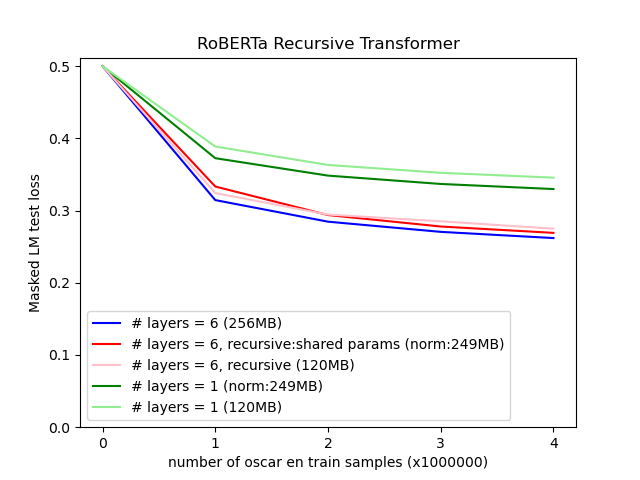
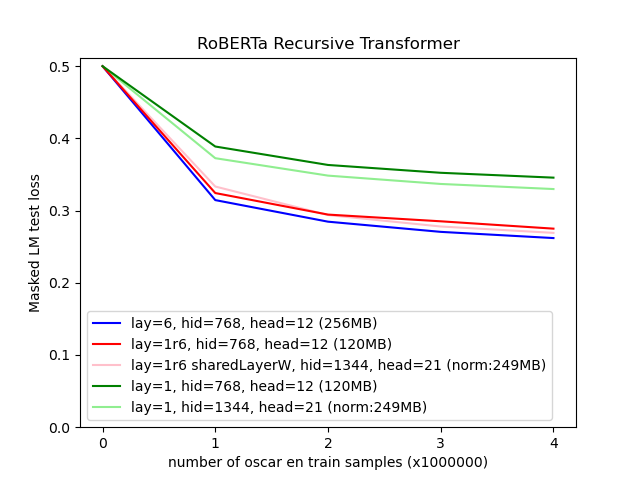
update graph positionEmbeddingTypeAbsolute/RobertaRecursiveTransformer-transformerBlockMLPlayer with sharedLayerWeightsMLPonly ("sharedLayerWeightsMLP"): recursiveLayersNormaliseNumParametersIntermediateOnly ("intermediate norm") patch graph positionEmbeddingTypeRelative/RobertaRecursiveTransformer 

Changed region(s): [[0.1875, 0.6562, 0.875, 0.875], [0.1562, 0.125, 0.875, 0.4375], [0.4688, 0.4375, 0.875, 0.5]]

diff --git a/ROBERTAptRecursive/ROBERTApt-main.py b/ROBERTAptRecursive/ROBERTApt-main.py
@@ -32,6 +32,11 @@ See RobertaForMaskedLM tutorial;
 
 from modeling_roberta_recursiveLayers import recursiveLayers
 
+relativeFolderLocations = False
+
+legacyDataloaderCode1 = False
+legacyDataloaderCode0 = False
+
 #user config vars:
 
 useSmallDatasetDebug = False
@@ -49,10 +54,9 @@ stateTestDataset = True	#requires reserveValidationSet
 if(recursiveLayers):
 	from modeling_roberta_recursiveLayers import sharedLayerWeights
 	from modeling_roberta_recursiveLayers import sharedLayerWeightsMLPonly
-	if(sharedLayerWeights):
-		from modeling_roberta_recursiveLayers import sharedLayerWeightsWithOutputs
-		from modeling_roberta_recursiveLayers import sharedLayerWeightsWithoutOutputs
-	recursiveLayersNormaliseNumParameters = True	#optional	#if use recursiveLayers normalise/equalise num of parameters with respect to !recursiveLayers
+	from modeling_roberta_recursiveLayers import sharedLayerWeightsWithOutputs
+	from modeling_roberta_recursiveLayers import sharedLayerWeightsWithoutOutputs
+	recursiveLayersNormaliseNumParameters = False	#optional	#if use recursiveLayers normalise/equalise num of parameters with respect to !recursiveLayers
 	if(recursiveLayersNormaliseNumParameters):
 		recursiveLayersNormaliseNumParametersIntermediate = True	#normalise intermediateSize parameters also	#default:true
 		recursiveLayersNormaliseNumParametersIntermediateOnly = False	#only normalise intermediary MLP layer	#requires recursiveLayersNormaliseNumParametersIntermediate
@@ -73,7 +77,7 @@ if(not usePretrainedModelDebug):
 	if(useSingleHiddenLayerDebug):
 		numberOfHiddenLayers = 1
 	else:
-		numberOfHiddenLayers = 6	#default: 6
+		numberOfHiddenLayers = 6	#6	#default: 6
 
 	vocabularySize = 30522	#default: 30522
 	hiddenLayerSize = 768	#default: 768
@@ -145,14 +149,23 @@ fractionOfMaskedTokens = 0.15
 
 if(useSmallBatchSizeDebug):
 	batchSize = 1	#use small batch size to enable simultaneous execution (GPU ram limited) 
-	
+
 numberOfSamplesPerDataFile = 10000
 numberOfSamplesPerDataFileLast = 423
 dataFileLastSampleIndex = 30423
 
+dataPreprocessedFileNameStart = "/text_"
+dataPreprocessedFileNameEnd = ".txt"
+
 #storage location vars (requires 4TB harddrive);
-downloadCacheFolder = '/media/rich/datasets/cache'
-dataFolder = '/media/rich/datasets/data'
+downloadCacheFolderName = 'cache'
+dataFolderName = 'data'
+if(relativeFolderLocations):
+	downloadCacheFolder = downloadCacheFolderName
+	dataFolder = dataFolderName
+else:
+	downloadCacheFolder = '/media/rich/datasets/cache'
+	dataFolder = '/media/rich/datasets/data'
 modelFolderName = 'model'
 
 modelSaveNumberOfBatches = 1000	#resave model after x training batches
@@ -239,26 +252,51 @@ def addMaskTokens(input_ids):
 		input_ids[i, selection] = customMaskTokenID
 	return input_ids
 
-def dataFileIndexListContainsLastFile(dataFileIndexList, paths):
-	containsDataFileLastSample = False
-	for dataFileIndex in dataFileIndexList:
-		path = paths[dataFileIndex]
-		if(str(dataFileLastSampleIndex) in path):
-			containsDataFileLastSample = True
-	return containsDataFileLastSample
+if(legacyDataloaderCode1):
+	def dataFileIndexListContainsLastFile(dataFileIndexList, paths):
+		containsDataFileLastSample = False
+		for dataFileIndex in dataFileIndexList:
+			path = paths[dataFileIndex]
+			if(str(dataFileLastSampleIndex) in path):
+				containsDataFileLastSample = True
+		return containsDataFileLastSample
+else:
+	def getNumberOfDocumentsHDD(numberOfDocumentsEst, dataFileIndexList):
+		containsDataFileLastDocument = dataFileIndexListContainsLastDocument(dataFileIndexList)
+		numberOfDocuments = len(dataFileIndexList)*numberOfSamplesPerDataFile
+		if(containsDataFileLastDocument):
+			numberOfDocuments = numberOfDocuments-numberOfSamplesPerDataFile + datasetNumberOfSamplesPerDataFileLast
+		return numberOfDocuments
+
+	def dataFileIndexListContainsLastDocument(dataFileIndexList):
+		containsDataFileLastDocument = False
+		for dataFileIndex in dataFileIndexList:
+			if(str(dataFileIndex) == dataFileLastSampleIndex):
+				containsDataFileLastDocument = True
+		return containsDataFileLastDocument
+if(not legacyDataloaderCode0):
+	def generateDataFileName(fileIndex):
+		fileName = dataFolder + dataPreprocessedFileNameStart + str(fileIndex) + dataPreprocessedFileNameEnd
+		return fileName
 	
 class DatasetHDD(torch.utils.data.Dataset):
-	def __init__(self, dataFileIndexList, paths):
+	def __init__(self, numberOfDocumentsEst, dataFileIndexList, paths):
 		self.dataFileIndexList = dataFileIndexList
 		self.paths = paths
 		self.encodings = None
-		self.containsDataFileLastSample = dataFileIndexListContainsLastFile(dataFileIndexList, paths)
+		if(legacyDataloaderCode1):
+			self.containsDataFileLastSample = dataFileIndexListContainsLastFile(dataFileIndexList, paths)
+		else:
+			self.numberOfDocuments = getNumberOfDocumentsHDD(numberOfDocumentsEst, dataFileIndexList)
 
 	def __len__(self):
-		numberOfSamples = len(self.dataFileIndexList)*numberOfSamplesPerDataFile
-		if(self.containsDataFileLastSample):
-			numberOfSamples = numberOfSamples-numberOfSamplesPerDataFile + numberOfSamplesPerDataFileLast
-		return numberOfSamples
+		if(legacyDataloaderCode1):
+			numberOfSamples = len(self.dataFileIndexList)*numberOfSamplesPerDataFile
+			if(self.containsDataFileLastSample):
+				numberOfSamples = numberOfSamples-numberOfSamplesPerDataFile + numberOfSamplesPerDataFileLast
+			return numberOfSamples
+		else:
+			return self.numberOfDocuments
 
 	def __getitem__(self, i):
 	
@@ -271,8 +309,11 @@ class DatasetHDD(torch.utils.data.Dataset):
 					
 		if(loadNextDataFile):
 			
-			path = self.paths[dataFileIndex]
-
+			if(legacyDataloaderCode0):
+				path = self.paths[dataFileIndex]
+			else:
+				path = generateDataFileName(dataFileIndex)	#OLD: self.paths[dataFileIndex] - requires dataFolder to contain all dataFiles up to dataFileIndex
+			
 			with open(path, 'r', encoding='utf-8') as fp:
 				lines = fp.read().split('\n')
 
@@ -298,12 +339,14 @@ class DatasetHDD(torch.utils.data.Dataset):
 		
 		return {key: tensor[itemIndexInSample] for key, tensor in self.encodings.items()}
 
-def createDataLoader(tokenizer, paths, pathIndexMin, pathIndexMax):
+def createDataLoader(tokenizer, paths, numberOfDataFiles, pathIndexMin, pathIndexMax):
 
 	dataFileIndexList = list(range(pathIndexMin, pathIndexMax))
 	print("dataFileIndexList = ", dataFileIndexList)
 	
-	dataset = DatasetHDD(dataFileIndexList, paths)
+	numberOfDocuments = numberOfDataFiles*numberOfSamplesPerDataFile	#equivalent number of documents (assuming it were loading data files)
+	
+	dataset = DatasetHDD(numberOfDocuments, dataFileIndexList, paths)
 
 	loader = torch.utils.data.DataLoader(dataset, batch_size=batchSize, shuffle=False)	#shuffle not supported by DatasetHDD
 
@@ -347,7 +390,9 @@ def trainDataset(tokenizer, paths):
 		pathIndexMax = int(numberOfDataFiles*trainSplitFraction)
 	else:
 		pathIndexMax = pathIndexMin+trainNumberOfDataFiles
-	loader = createDataLoader(tokenizer, paths, pathIndexMin, pathIndexMax)
+	loader = createDataLoader(tokenizer, paths, trainNumberOfDataFiles, pathIndexMin, pathIndexMax)
+	
+	model.save_pretrained(modelFolderName)
 	
 	for epoch in range(trainStartEpoch, trainStartEpoch+trainNumberOfEpochs):
 		loop = tqdm(loader, leave=True)
@@ -389,7 +434,7 @@ def testDataset(tokenizer, paths):
 
 	pathIndexMin = int(numberOfDataFiles*trainSplitFraction)
 	pathIndexMax = pathIndexMin+testNumberOfDataFiles		
-	loader = createDataLoader(tokenizer, paths, pathIndexMin, pathIndexMax)
+	loader = createDataLoader(tokenizer, paths, testNumberOfDataFiles, pathIndexMin, pathIndexMax)
 		
 	for epoch in range(trainStartEpoch, trainStartEpoch+trainNumberOfEpochs):
 		loop = tqdm(loader, leave=True)

diff --git a/graph/recursiveLayers/trainingResults/positionEmbeddingTypeAbsolute/orig/RobertaRecursiveTransformer-loss.py b/graph/recursiveLayers/trainingResults/positionEmbeddingTypeAbsolute/orig/RobertaRecursiveTransformer-loss.py
@@ -8,11 +8,12 @@ y3 = np.array([0.5, 0.3725783558964729, 0.3484503712660074, 0.3369026028829813, 
 y4 = np.array([0.5, 0.3243083935147524, 0.2944739804047346, 0.28517395846247673, 0.27500040173232554])
 y5 = np.array([0.5, 0.3887588016808033, 0.36320978958070277, 0.3523632300710678, 0.3456409868645668])
 
-l1, = plt.plot(x, y1, color='pink', label='lay=1r6 sharedLayerW, hid=1344, head=21 (norm:249MB)')
-l2, = plt.plot(x, y2, color='blue', label='lay=6, hid=768, head=12 (256MB)')
-l3, = plt.plot(x, y3, color='lightgreen', label='lay=1, hid=1344, head=21 (norm:249MB)')
-l4, = plt.plot(x, y4, color='red', label='lay=1r6, hid=768, head=12 (120MB)')
-l5, = plt.plot(x, y5, color='green', label='lay=1, hid=768, head=12 (120MB)')
+l1, = plt.plot(x, y1, color='r', label='# layers = 6, recursive:shared params (norm:249MB)')
+l2, = plt.plot(x, y2, color='b', label='# layers = 6 (256MB)')
+l3, = plt.plot(x, y3, color='g', label='# layers = 1 (norm:249MB)')
+l4, = plt.plot(x, y4, color='pink', label='# layers = 6, recursive (120MB)')
+l5, = plt.plot(x, y5, color='lightgreen', label='# layers = 1 (120MB)')
+
 
 plt.xticks(np.arange(min(x), max(x)+1, 1.0))
 plt.yticks(np.arange(0, 0.5+0.1, 0.1))
@@ -21,6 +22,6 @@ plt.xlabel("number of oscar en train samples (x1000000)")
 plt.ylabel("Masked LM test loss")
 plt.title("RoBERTa Recursive Transformer")
 
-plt.legend(handles=[l2, l4, l1, l5, l3])
+plt.legend(handles=[l2, l1, l4, l3, l5])
 
 plt.show()

diff --git a/graph/recursiveLayers/trainingResults/positionEmbeddingTypeAbsolute/RobertaRecursiveTransformer-transformerBlockMLPlayer.py b/graph/recursiveLayers/trainingResults/positionEmbeddingTypeAbsolute/RobertaRecursiveTransformer-transformerBlockMLPlayer.py
@@ -8,13 +8,15 @@ y6 = np.array([0, np.nan, np.nan, np.nan, np.nan])
 y7 = np.array([0, np.nan, np.nan, np.nan, np.nan])
 y8 = np.array([0.0, 0.4075560009920597, np.nan, np.nan, np.nan ])
 y9 = np.array([0.0, 0.40710742794513705, np.nan, np.nan, np.nan ])
+y10 = np.array([0.0, 0.3540379656097293, 0.41716802026569844, np.nan, np.nan ])
 
 l2, = plt.plot(x, y2, color='blue', label='lay=6 (256MB)')
 l3, = plt.plot(x, y3, color='red', label='lay=1r6 (120MB)')
 l6, = plt.plot(x, y6, color='orange', label='lay=1r6 !MLPlayer (?MB)')
 l7, = plt.plot(x, y7, color='yellow', label='lay=1r6 MLPlayerLast (120MB)')
-l8, = plt.plot(x, y9, color='purple', label='lay=1r6 sharedLayerWeightsMLP (166MB)')
-l9, = plt.plot(x, y8, color='navy', label='lay=1r6 sharedLayerWeightsMLP+SelfOut (156MB)')
+l8, = plt.plot(x, y8, color='purple', label='lay=1r6 sharedLayerWeightsMLP (166MB)')
+l9, = plt.plot(x, y9, color='navy', label='lay=1r6 sharedLayerWeightsMLP+SelfOut (156MB)')
+l10, = plt.plot(x, y10, color='darkviolet', label='lay=1r6 sharedLayerWeightsMLP (intermediate norm:256MB)')
 
 plt.xticks(np.arange(min(x), max(x)+1, 1.0))
 plt.yticks(np.arange(0, 0.5+0.1, 0.1))
@@ -23,6 +25,6 @@ plt.xlabel("number of oscar en train samples (x1000000)")
 plt.ylabel("Masked LM test accuracy (Top-1)")
 plt.title("RoBERTa Recursive Transformer")
 
-plt.legend(handles=[l2, l3, l8, l9])
+plt.legend(handles=[l2, l3, l8, l9, l10], loc='lower left')
 
 plt.show()

diff --git a/graph/recursiveLayers/trainingResults/positionEmbeddingTypeAbsolute/orig/RobertaRecursiveTransformer.py b/graph/recursiveLayers/trainingResults/positionEmbeddingTypeAbsolute/orig/RobertaRecursiveTransformer.py
@@ -8,11 +8,11 @@ y3 = np.array([0, 0.32205438960790633, 0.34977506301760675, 0.3640139799118042, 
 y4 = np.array([0, 0.4107974250018597, 0.44753125154256823, 0.46352191767930984, 0.4760648959302902])
 y5 = np.array([0, 0.30340382710933683, 0.3310104872369766, 0.34348129745364187, 0.35091807383656504])
 
-l1, = plt.plot(x, y1, color='pink', label='lay=1r6 sharedLayerW, hid=1344, head=21 (norm:249MB)')
-l2, = plt.plot(x, y2, color='blue', label='lay=6, hid=768, head=12 (256MB)')
-l3, = plt.plot(x, y3, color='lightgreen', label='lay=1, hid=1344, head=21 (norm:249MB)')
-l4, = plt.plot(x, y4, color='red', label='lay=1r6, hid=768, head=12 (120MB)')
-l5, = plt.plot(x, y5, color='green', label='lay=1, hid=768, head=12 (120MB)')
+l1, = plt.plot(x, y1, color='r', label='# layers = 6, recursive:shared params (norm:249MB)')
+l2, = plt.plot(x, y2, color='b', label='# layers = 6 (256MB)')
+l3, = plt.plot(x, y3, color='g', label='# layers = 1 (norm:249MB)')
+l4, = plt.plot(x, y4, color='pink', label='# layers = 6, recursive (120MB)')
+l5, = plt.plot(x, y5, color='lightgreen', label='# layers = 1 (120MB)')
 
 
 plt.xticks(np.arange(min(x), max(x)+1, 1.0))
@@ -21,6 +21,6 @@ plt.xlabel("number of oscar en train samples (x1000000)")
 plt.ylabel("Masked LM test accuracy (Top-1)")
 plt.title("RoBERTa Recursive Transformer")
 
-plt.legend(handles=[l2, l4, l1, l5, l3], loc='lower left')
+plt.legend(handles=[l2, l1, l4, l3, l5])
 
 plt.show()

diff --git a/graph/recursiveLayers/trainingResults/positionEmbeddingTypeAbsolute/RobertaRecursiveTransformer-transformerBlockMLPlayer-loss.py b/graph/recursiveLayers/trainingResults/positionEmbeddingTypeAbsolute/RobertaRecursiveTransformer-transformerBlockMLPlayer-loss.py
@@ -8,13 +8,15 @@ y6 = np.array([0.5, np.nan, np.nan, np.nan, np.nan])
 y7 = np.array([0.5, np.nan, np.nan, np.nan, np.nan])
 y8 = np.array([0.5, 0.32535708522319795, np.nan, np.nan, np.nan ])
 y9 = np.array([0.5, 0.32623474962949756, np.nan, np.nan, np.nan ])
+y10 = np.array([0.5, 0.36937344963759183, 0.3171483307559043, np.nan, np.nan ])
 
 l2, = plt.plot(x, y2, color='blue', label='lay=6 (256MB)')
 l3, = plt.plot(x, y3, color='red', label='lay=1r6 (120MB)')
 l6, = plt.plot(x, y6, color='orange', label='lay=1r6 !MLPlayer (?MB)')
 l7, = plt.plot(x, y7, color='yellow', label='lay=1r6 MLPlayerLast (120MB)')
-l8, = plt.plot(x, y9, color='purple', label='lay=1r6 sharedLayerWeightsMLP (166MB)')
-l9, = plt.plot(x, y8, color='navy', label='lay=1r6 sharedLayerWeightsMLP+SelfOut (154MB)')
+l8, = plt.plot(x, y8, color='purple', label='lay=1r6 sharedLayerWeightsMLP (166MB)')
+l9, = plt.plot(x, y9, color='navy', label='lay=1r6 sharedLayerWeightsMLP+SelfOut (154MB)')
+l10, = plt.plot(x, y10, color='darkviolet', label='lay=1r6 sharedLayerWeightsMLP (intermediate norm:256MB)')
 
 plt.xticks(np.arange(min(x), max(x)+1, 1.0))
 plt.yticks(np.arange(0, 0.5+0.1, 0.1))
@@ -23,6 +25,6 @@ plt.xlabel("number of oscar en train samples (x1000000)")
 plt.ylabel("Masked LM test loss")
 plt.title("RoBERTa Recursive Transformer")
 
-plt.legend(handles=[l2, l3, l8, l9])
+plt.legend(handles=[l2, l3, l8, l9, l10])
 
 plt.show()

diff --git a/graph/recursiveLayers/trainingResults/positionEmbeddingTypeRelative/orig/RobertaRecursiveTransformer.py b/graph/recursiveLayers/trainingResults/positionEmbeddingTypeRelative/orig/RobertaRecursiveTransformer.py
@@ -11,8 +11,8 @@ y5 = np.array([0, 0.3397151798963547, 0.3601354651093483, 0.3720378009200096, 0.
 l1, = plt.plot(x, y1, color='green', label='lay=1, hid=768, head=12 (120MB)')
 l2, = plt.plot(x, y2, color='blue', label='lay=6, hid=768, head=12 (256MB)')
 l3, = plt.plot(x, y3, color='red', label='lay=1r6, hid=768, head=12 (120MB)')
-l4, = plt.plot(x, y4, color='pink', label='lay=1r6, hid=1536, head=24 (non-intermediate norm:263MB)', linestyle='dashed')
-l5, = plt.plot(x, y5, color='lightgreen', label='lay=1, hid=1536, head=24 (non-intermediate norm:263MB)', linestyle='dashed')
+l4, = plt.plot(x, y4, color='pink', label='lay=1r6, hid=1536, head=24 (norm:263MB)')
+l5, = plt.plot(x, y5, color='lightgreen', label='lay=1, hid=1536, head=24 (norm:263MB)')
 
 plt.xticks(np.arange(min(x), max(x)+1, 1.0))
 plt.yticks(np.arange(0, 0.5+0.1, 0.1))
@@ -21,6 +21,6 @@ plt.xlabel("number of oscar en train samples (x1000000)")
 plt.ylabel("Masked LM test accuracy (Top-1)")
 plt.title("RoBERTa Recursive Transformer")
 
-plt.legend(handles=[l2, l3, l4, l1, l5], loc='lower left')
+plt.legend(handles=[l2, l3, l4, l1, l5])
 
 plt.show()

diff --git a/graph/recursiveLayers/trainingResults/positionEmbeddingTypeRelative/orig/RobertaRecursiveTransformer-loss.py b/graph/recursiveLayers/trainingResults/positionEmbeddingTypeRelative/orig/RobertaRecursiveTransformer-loss.py
@@ -11,8 +11,8 @@ y5 = np.array([0.5, 0.36026279502511027, 0.34200011098980904, 0.3328074170410633
 l1, = plt.plot(x, y1, color='green', label='lay=1, hid=768, head=12 (120MB)')
 l2, = plt.plot(x, y2, color='blue', label='lay=6, hid=768, head=12 (256MB)')
 l3, = plt.plot(x, y3, color='red', label='lay=1r6, hid=768, head=12 (120MB)')
-l4, = plt.plot(x, y4, color='pink', label='lay=1r6, hid=1536, head=24 (non-intermediate norm:263MB)', linestyle='dashed')
-l5, = plt.plot(x, y5, color='lightgreen', label='lay=1, hid=1536, head=24 (non-intermediate norm:263MB)', linestyle='dashed')
+l4, = plt.plot(x, y4, color='pink', label='lay=1r6, hid=1536, head=24 (norm:263MB)')
+l5, = plt.plot(x, y5, color='lightgreen', label='lay=1, hid=1536, head=24 (norm:263MB)')
 
 plt.xticks(np.arange(min(x), max(x)+1, 1.0))
 plt.yticks(np.arange(0, 0.5+0.1, 0.1))

diff --git a/SBNLPpt/SBNLPpt_globalDefs.py b/SBNLPpt/SBNLPpt_globalDefs.py
@@ -545,9 +545,9 @@ if(useAlgorithmTransformer):
 					sharedLayerWeightsOutput = True	#default: true
 			#shared layer configuration;
 			sharedLayerWeightsMLPonly = False
+			sharedLayerWeightsWithOutputs = False	
+			sharedLayerWeightsWithoutOutputs = False
 			if(sharedLayerWeights):
-				sharedLayerWeightsWithOutputs = False	
-				sharedLayerWeightsWithoutOutputs = False
 				if(sharedLayerWeightsSelfAttention and sharedLayerWeightsIntermediate and sharedLayerWeightsSelfOutput and sharedLayerWeightsOutput):
 					sharedLayerWeightsWithOutputs = True
 				elif(sharedLayerWeightsSelfAttention and sharedLayerWeightsIntermediate and not sharedLayerWeightsSelfOutput and not sharedLayerWeightsOutput):

diff --git a/ROBERTAptRecursive/modeling_roberta_recursiveLayers.py b/ROBERTAptRecursive/modeling_roberta_recursiveLayers.py
@@ -52,9 +52,9 @@ if(recursiveLayers):
 			sharedLayerWeightsOutput = True	#default: true
 #shared layer configuration;
 sharedLayerWeightsMLPonly = False
+sharedLayerWeightsWithOutputs = False
+sharedLayerWeightsWithoutOutputs = False
 if(sharedLayerWeights):
-	sharedLayerWeightsWithOutputs = False
-	sharedLayerWeightsWithoutOutputs = False
 	if(sharedLayerWeightsSelfAttention and sharedLayerWeightsIntermediate and sharedLayerWeightsSelfOutput and sharedLayerWeightsOutput):
 		sharedLayerWeightsWithOutputs = True
 	elif(sharedLayerWeightsSelfAttention and sharedLayerWeightsIntermediate and not sharedLayerWeightsSelfOutput and not sharedLayerWeightsOutput):
